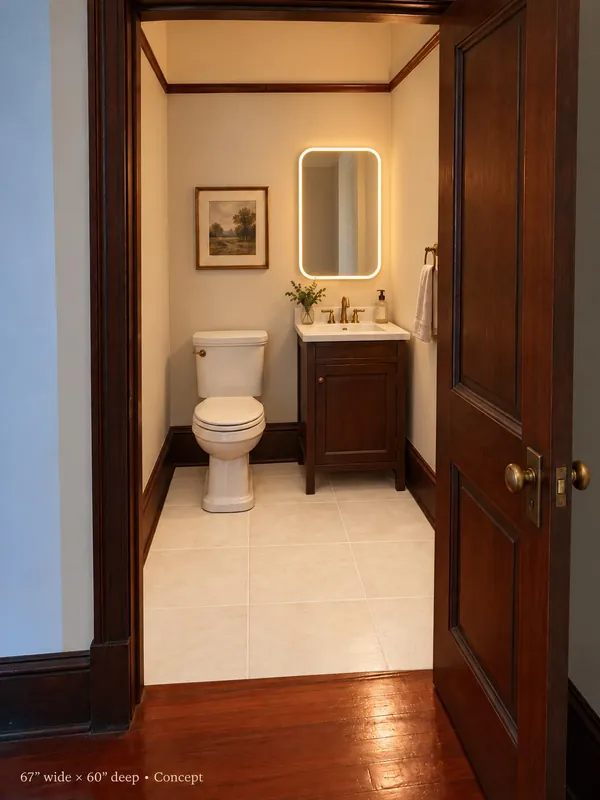
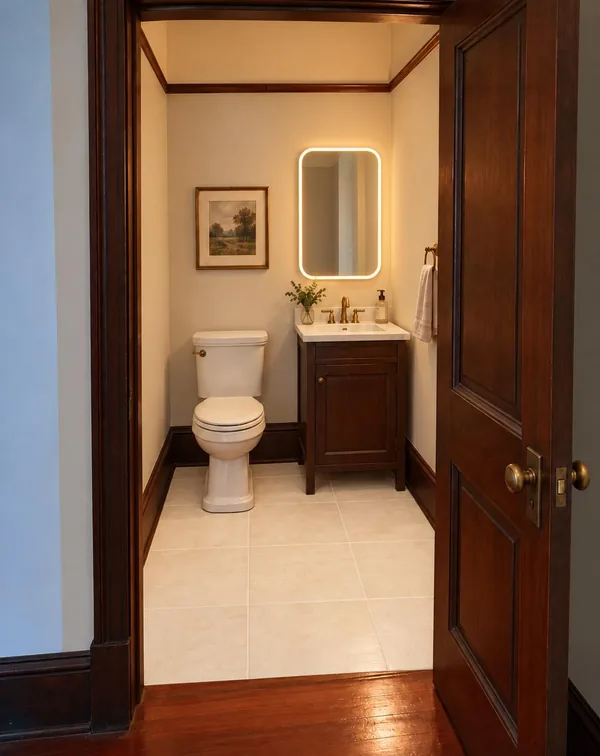
Add the first interior photos
Five rooms on a new Inside section of the Photos page (the fretwork
arch into the living room, the entry hall, an upstairs room, a
fireplace and a pierced-panel door) and the opened wall as the first
progress photo. The arch photo now leads the house section on the home
page, with the game-day concept as the small inset. Photos are lightly
color-corrected; originals are in design-source/photos-2026-10.

Trims the baked-in caption off the half-bath slider images, and adds
ChatGPT staging prompts plus 2:3 reference crops for four rooms.

Claude-Session: https://claude.ai/code/session_01HHhNeFoxKeXYtJ9rwuHu6G

diff --git a/site/photos.html b/site/photos.html
@@ -81,10 +81,11 @@
     <div class="page-title">
       <p class="script">The</p>
       <h1>Photographs</h1>
-      <p class="lede">The home as it is today, the work as it happens, and the finished rooms as we plan them. Renderings are labeled as concepts. Tap a photo to see it larger.</p>
+      <p class="lede">The house inside and out as it is today, the work as it happens, and the finished rooms as we plan them. Renderings are labeled as concepts. Tap a photo to see it larger.</p>
     </div>
     <nav class="jump" aria-label="Photo sections">
-      <a href="#today">The home today <span class="count">6</span></a>
+      <a href="#today">Outside <span class="count">4</span></a>
+      <a href="#inside">Inside <span class="count">5</span></a>
       <a href="#transformation">The transformation</a>
       <a href="#finished">When it&rsquo;s finished <span class="count">2</span></a>
     </nav>
@@ -103,7 +104,7 @@
 
   <section class="section" id="today" aria-labelledby="today-h" style="padding-top:clamp(40px,5vw,72px)">
     <div class="wrap">
-      <div class="section-head"><h2 id="today-h">The home today</h2><p class="lede">The house as it stands, before the renovation, plus one look back to around 1900.</p></div>
+      <div class="section-head"><h2 id="today-h">Outside</h2><p class="lede">The house as it stands on NE Third Street.</p></div>
       <div class="gallery">
         <figure class="photo cab w-12 tilt-s r-wide">
           <a href="images/exterior-today-1600.jpg" data-lightbox><picture><source type="image/webp" srcset="images/exterior-today-800.webp 800w, images/exterior-today-1600.webp 1551w" sizes="100vw"><img src="images/exterior-today-1600.jpg" srcset="images/exterior-today-800.jpg 800w, images/exterior-today-1600.jpg 1551w" sizes="100vw" width="1551" height="1014" alt="The Albert Blanding House today: butter-yellow clapboard, a grey fish-scale shingled gable and a wraparound porch with turned posts, behind a green lawn and front walk." loading="lazy"></picture></a>
@@ -121,13 +122,33 @@
           <div class="frame"><picture><source type="image/webp" srcset="images/detail-entry.webp"><img src="images/detail-entry.jpg" width="310" height="340" alt="The gabled porch entry and front doors." loading="lazy"></picture></div>
           <figcaption><b>The entry</b>A gabled roof over the front steps.</figcaption>
         </figure>
-        <figure class="photo cab w-5 tilt-r r-tall">
-          <a href="images/alcove-before-1086.jpg" data-lightbox><picture><source type="image/webp" srcset="images/alcove-before-600.webp 600w, images/alcove-before-1086.webp 1086w" sizes="(min-width: 760px) 50vw, 100vw"><img src="images/alcove-before-1086.jpg" srcset="images/alcove-before-600.jpg 600w, images/alcove-before-1086.jpg 1086w" sizes="(min-width: 760px) 50vw, 100vw" width="1086" height="1448" alt="Today: an empty upstairs alcove with pale blue walls, dark stained baseboards, wood floors and a wall sconce." loading="lazy"></picture></a>
-          <figcaption><b>Upstairs alcove</b>Wood floors and dark trim. This is where the new half bath goes.</figcaption>
+      </div>
+    </div>
+  </section>
+
+  <section class="section band-paper2" id="inside" aria-labelledby="inside-h">
+    <div class="wrap">
+      <div class="section-head"><h2 id="inside-h">Inside</h2><p class="lede">The wood floors, carved fretwork and mantels, photographed this fall as the work begins. Furniture comes later.</p></div>
+      <div class="gallery">
+        <figure class="photo cab w-7 r-land">
+          <a href="images/home-arch-1200.jpg" data-lightbox><picture><source type="image/webp" srcset="images/home-arch-800.webp 800w, images/home-arch-1200.webp 1200w" sizes="(min-width: 760px) 58vw, 100vw"><img src="images/home-arch-1200.jpg" srcset="images/home-arch-800.jpg 800w, images/home-arch-1200.jpg 1200w" sizes="(min-width: 760px) 58vw, 100vw" width="1200" height="900" alt="Looking through a carved fretwork archway into the living room: wide-plank wood floors, dark-stained trim, a chandelier and a wood mantel with a tiled fireplace and an oval mirror." loading="lazy"></picture></a>
+          <figcaption><b>Into the living room</b>The carved fretwork arch, with the mirrored mantel beyond.</figcaption>
         </figure>
-        <figure class="photo cab w-7 is-offset tilt-l r-land">
-          <a href="images/house-early-1900s-1200.jpg" data-lightbox><picture><source type="image/webp" srcset="images/house-early-1900s-700.webp 700w, images/house-early-1900s-1200.webp 1200w" sizes="(min-width: 760px) 50vw, 100vw"><img src="images/house-early-1900s-1200.jpg" srcset="images/house-early-1900s-700.jpg 700w, images/house-early-1900s-1200.jpg 1200w" sizes="(min-width: 760px) 50vw, 100vw" width="1200" height="1204" alt="A sepia photograph of the house in its early years, with five people in period dress on the wraparound porch behind a picket fence." loading="lazy"></picture></a>
-          <figcaption><b>The house around 1900</b>Read its story on the History page.</figcaption>
+        <figure class="photo cab w-5 is-offset r-tall">
+          <a href="images/room-entry-hall-1200.jpg" data-lightbox><picture><source type="image/webp" srcset="images/room-entry-hall-600.webp 600w, images/room-entry-hall-1200.webp 1200w" sizes="(min-width: 760px) 42vw, 100vw"><img src="images/room-entry-hall-1200.jpg" srcset="images/room-entry-hall-600.jpg 600w, images/room-entry-hall-1200.jpg 1200w" sizes="(min-width: 760px) 42vw, 100vw" width="1200" height="1600" alt="The entry hall seen through a wide doorway: a carved staircase, fretwork brackets overhead, a tall window and the front doors, with a ladder and broom from the work." loading="lazy"></picture></a>
+          <figcaption><b>The entry hall</b>The carved staircase and front doors, mid-work.</figcaption>
+        </figure>
+        <figure class="photo cab w-4 r-tall">
+          <a href="images/room-upstairs-room-1200.jpg" data-lightbox><picture><source type="image/webp" srcset="images/room-upstairs-room-600.webp 600w, images/room-upstairs-room-1200.webp 1200w" sizes="(min-width: 760px) 33vw, 100vw"><img src="images/room-upstairs-room-1200.jpg" srcset="images/room-upstairs-room-600.jpg 600w, images/room-upstairs-room-1200.jpg 1200w" sizes="(min-width: 760px) 33vw, 100vw" width="1200" height="1600" alt="An empty upstairs room with three tall windows looking into the trees, a ceiling fan, dark-stained trim and wood floors." loading="lazy"></picture></a>
+          <figcaption><b>Upstairs</b>Three tall windows into the treetops.</figcaption>
+        </figure>
+        <figure class="photo cab w-4 r-tall">
+          <a href="images/room-fireplace-room-1200.jpg" data-lightbox><picture><source type="image/webp" srcset="images/room-fireplace-room-600.webp 600w, images/room-fireplace-room-1200.webp 1200w" sizes="(min-width: 760px) 33vw, 100vw"><img src="images/room-fireplace-room-1200.jpg" srcset="images/room-fireplace-room-600.jpg 600w, images/room-fireplace-room-1200.jpg 1200w" sizes="(min-width: 760px) 33vw, 100vw" width="1200" height="1600" alt="A white painted mantel with a brick-tiled fireplace and slate hearth, beside a paneled door with a transom window." loading="lazy"></picture></a>
+          <figcaption><b>One of the fireplaces</b>A painted mantel and a transom door.</figcaption>
+        </figure>
+        <figure class="photo cab w-4 r-tall">
+          <div class="frame"><picture><source type="image/webp" srcset="images/room-closet-door-600.webp"><img src="images/room-closet-door-600.jpg" width="600" height="800" alt="A dark red four-panel closet door with pierced Eastlake panels and a white porcelain knob." loading="lazy"></picture></div>
+          <figcaption><b>The small things</b>Pierced-panel doors and porcelain knobs.</figcaption>
         </figure>
       </div>
     </div>
@@ -139,18 +160,18 @@
         
         <h2 id="progress-h">The transformation</h2>
         <p class="lede">Drag across the photo to see the upstairs alcove become the new half bath. It&rsquo;s 67 inches wide by 60 inches deep.</p>
-        <div class="coming">
-          <h3>Progress photos start here</h3>
-          <p>As the work moves along we&rsquo;ll post each room mid-renovation, from demolition to the finishing touches. Join the guest list and we&rsquo;ll email you when new ones go up.</p>
-          <a class="pill" href="./#guest-list">Join the guest list</a>
+        <div class="gallery">
+          <figure class="photo cab w-12 r-land">
+          <a href="images/room-wall-opening-1200.jpg" data-lightbox><picture><source type="image/webp" srcset="images/room-wall-opening-600.webp 600w, images/room-wall-opening-1200.webp 1200w" sizes="(min-width: 960px) 520px, 100vw"><img src="images/room-wall-opening-1200.jpg" srcset="images/room-wall-opening-600.jpg 600w, images/room-wall-opening-1200.jpg 1200w" sizes="(min-width: 960px) 520px, 100vw" width="1200" height="1600" alt="A wall opened down to the studs, looking through to the entry hall with its tall window and front doors." loading="lazy"></picture></a>
+          <figcaption><b>Fall 2026: work begins</b>A wall opened to the studs, looking through to the entry hall.</figcaption>
+        </figure>
         </div>
-        <!-- When the first progress photos are ready, replace the "coming" block above with
-             <div class="gallery"> and <figure class="photo cab"> blocks like the ones in "The home today". -->
+        <p>We&rsquo;ll post each room as the work moves along. <a href="./#guest-list">Join the guest list</a> and we&rsquo;ll email you when new photos go up.</p>
       </div>
       <figure class="cab compare-card tilt-r">
         <div class="compare" data-compare>
-          <picture><source type="image/webp" srcset="images/alcove-before-600.webp 600w, images/alcove-before-1086.webp 1086w" sizes="(min-width: 960px) 520px, 100vw"><img src="images/alcove-before-1086.jpg" srcset="images/alcove-before-600.jpg 600w, images/alcove-before-1086.jpg 1086w" sizes="(min-width: 960px) 520px, 100vw" width="1086" height="1448" alt="Today: an empty upstairs alcove with pale blue walls, dark stained baseboards, wood floors and a wall sconce." loading="lazy"></picture>
-          <div class="compare-after"><picture><source type="image/webp" srcset="images/alcove-after-concept-600.webp 600w, images/alcove-after-concept-1086.webp 1086w" sizes="(min-width: 960px) 520px, 100vw"><img src="images/alcove-after-concept-1086.jpg" srcset="images/alcove-after-concept-600.jpg 600w, images/alcove-after-concept-1086.jpg 1086w" sizes="(min-width: 960px) 520px, 100vw" width="1086" height="1448" alt="Concept: the same alcove as a half bath, with cream tile, a dark wood vanity, brass fixtures, a lit mirror and a paneled door." loading="lazy"></picture></div>
+          <picture><source type="image/webp" srcset="images/alcove-before-600.webp 600w, images/alcove-before-1086.webp 1086w" sizes="(min-width: 960px) 520px, 100vw"><img src="images/alcove-before-1086.jpg" srcset="images/alcove-before-600.jpg 600w, images/alcove-before-1086.jpg 1086w" sizes="(min-width: 960px) 520px, 100vw" width="1086" height="1368" alt="Today: an empty upstairs alcove with pale blue walls, dark stained baseboards, wood floors and a wall sconce." loading="lazy"></picture>
+          <div class="compare-after"><picture><source type="image/webp" srcset="images/alcove-after-concept-600.webp 600w, images/alcove-after-concept-1086.webp 1086w" sizes="(min-width: 960px) 520px, 100vw"><img src="images/alcove-after-concept-1086.jpg" srcset="images/alcove-after-concept-600.jpg 600w, images/alcove-after-concept-1086.jpg 1086w" sizes="(min-width: 960px) 520px, 100vw" width="1086" height="1368" alt="Concept: the same alcove as a half bath, with cream tile, a dark wood vanity, brass fixtures, a lit mirror and a paneled door." loading="lazy"></picture></div>
           <span class="compare-label is-before">Today</span>
           <span class="compare-label is-after">Concept</span>
           <div class="compare-handle" aria-hidden="true"><span class="compare-knob"><svg viewBox="0 0 24 24" fill="none" stroke="currentColor" stroke-width="2" stroke-linecap="round" stroke-linejoin="round"><path d="m9 6-6 6 6 6M15 6l6 6-6 6"/></svg></span></div>
@@ -166,7 +187,7 @@
       <div class="section-head"><h2 id="finished-h">When it&rsquo;s finished</h2><p class="lede">Renderings of the rooms as we plan them. Final finishes may change, and we&rsquo;ll add more as each room is designed.</p></div>
       <div class="gallery">
         <figure class="photo cab w-5 tilt-l r-tall">
-          <a href="images/alcove-after-concept-1086.jpg" data-lightbox><span class="tag">Concept</span><picture><source type="image/webp" srcset="images/alcove-after-concept-600.webp 600w, images/alcove-after-concept-1086.webp 1086w" sizes="(min-width: 760px) 50vw, 100vw"><img src="images/alcove-after-concept-1086.jpg" srcset="images/alcove-after-concept-600.jpg 600w, images/alcove-after-concept-1086.jpg 1086w" sizes="(min-width: 760px) 50vw, 100vw" width="1086" height="1448" alt="Concept rendering of the upstairs half bath: cream tile floor, dark wood vanity, brass faucet, a lit rounded mirror and a framed landscape print." loading="lazy"></picture></a>
+          <a href="images/alcove-after-concept-1086.jpg" data-lightbox><span class="tag">Concept</span><picture><source type="image/webp" srcset="images/alcove-after-concept-600.webp 600w, images/alcove-after-concept-1086.webp 1086w" sizes="(min-width: 760px) 50vw, 100vw"><img src="images/alcove-after-concept-1086.jpg" srcset="images/alcove-after-concept-600.jpg 600w, images/alcove-after-concept-1086.jpg 1086w" sizes="(min-width: 760px) 50vw, 100vw" width="1086" height="1368" alt="Concept rendering of the upstairs half bath: cream tile floor, dark wood vanity, brass faucet, a lit rounded mirror and a framed landscape print." loading="lazy"></picture></a>
           <figcaption><b>The upstairs half bath</b>Concept rendering. Dark wood and brass to match the house&rsquo;s trim.</figcaption>
         </figure>
         <figure class="photo cab w-7 is-offset tilt-r r-land">

diff --git a/site/index.html b/site/index.html
@@ -140,9 +140,9 @@
   <section class="section" id="the-house" aria-labelledby="house-h">
     <div class="wrap house-grid">
       <div class="house-photos">
-        <figure class="cab hp-1"><span class="tag">Concept</span><picture><source type="image/webp" srcset="images/render-living-room-800.webp 800w, images/render-living-room-1536.webp 1536w" sizes="(min-width: 1000px) 40vw, 80vw"><img src="images/render-living-room-1536.jpg" srcset="images/render-living-room-800.jpg 800w, images/render-living-room-1536.jpg 1536w" sizes="(min-width: 1000px) 40vw, 80vw" width="1536" height="1024" alt="Concept rendering of the living room set up for game day: a 98-inch TV showing a football game above a carved wood fireplace, a deep cream sectional with orange and blue pillows, a leather ottoman with snacks, dark-stained trim and tall shuttered windows." loading="lazy"></picture></figure>
+        <figure class="cab hp-1"><picture><source type="image/webp" srcset="images/home-arch-800.webp 800w, images/home-arch-1200.webp 1200w" sizes="(min-width: 1000px) 40vw, 80vw"><img src="images/home-arch-1200.jpg" srcset="images/home-arch-800.jpg 800w, images/home-arch-1200.jpg 1200w" sizes="(min-width: 1000px) 40vw, 80vw" width="1200" height="900" alt="Looking through a carved fretwork archway into the living room: wide-plank wood floors, dark-stained trim, a chandelier and a wood mantel with a tiled fireplace and an oval mirror." loading="lazy"></picture></figure>
         <figure class="cab hp-2"><picture><source type="image/webp" srcset="images/exterior-today-800.webp 800w, images/exterior-today-1600.webp 1551w" sizes="(min-width: 1000px) 24vw, 46vw"><img src="images/exterior-today-1600.jpg" srcset="images/exterior-today-800.jpg 800w, images/exterior-today-1600.jpg 1551w" sizes="(min-width: 1000px) 24vw, 46vw" width="1551" height="1014" alt="The wraparound porch and gabled entry of the house." loading="lazy"></picture></figure>
-        <figure class="cab hp-3"><picture><source type="image/webp" srcset="images/detail-entry.webp"><img src="images/detail-entry.jpg" width="310" height="340" alt="The gabled porch entry and front doors." loading="lazy"></picture></figure>
+        <figure class="cab hp-3"><span class="tag">Concept</span><picture><source type="image/webp" srcset="images/render-living-room-800.webp 800w, images/render-living-room-1536.webp 1536w" sizes="(min-width: 1000px) 20vw, 40vw"><img src="images/render-living-room-1536.jpg" srcset="images/render-living-room-800.jpg 800w, images/render-living-room-1536.jpg 1536w" sizes="(min-width: 1000px) 20vw, 40vw" width="1536" height="1024" alt="Concept rendering of the living room set up for game day: a 98-inch TV showing a football game above a carved wood fireplace, a deep cream sectional with orange and blue pillows, a leather ottoman with snacks, dark-stained trim and tall shuttered windows." loading="lazy"></picture></figure>
       </div>
       <div class="bill">
         <div class="bill-head"><p class="script">A bill of particulars</p><h2 id="house-h">The house at 306 NE Third</h2></div>
@@ -159,7 +159,7 @@
           <div><dt>Stadium</dt><dd>7-minute drive</dd></div>
         </dl>
         <div class="bill-foot">
-          <p class="fine">We&rsquo;re keeping the porch, the wood floors and the dark-stained trim, and adding what a modern stay needs. The living room above is a concept rendering.</p>
+          <p class="fine">We&rsquo;re keeping the porch, the wood floors and the dark-stained trim, and adding what a modern stay needs. The game-day living room is a concept rendering; the rest are photos of the house today.</p>
           <a class="link" href="photos.html#transformation">See the transformation</a>
         </div>
       </div>

diff --git a/CHATGPT_PROMPTS.md b/CHATGPT_PROMPTS.md
@@ -87,6 +87,30 @@ Two rules for everything:
 - **Label renderings as concepts** on the site. The Photos page already has a "Concept" tag for this.
 
 ---
+### 10. Staging the real interior photos (before/after sliders)
+
+These turn the October 2026 interior photos into furnished concepts. On the Photos page each one becomes a slider: drag from the room today to the room finished. A slider only works if the two images line up, so the walls, doors and trim must not move.
+
+Use the four pre-cropped photos in `design-source/staging-refs/` (already lightly color-corrected and cropped to 2:3, the shape ChatGPT returns). Open one new chat for all four, and paste this first, with no image:
+
+> In this chat I'll attach real photos of rooms in our 1899 Victorian house and ask you to furnish them. Every image you make is an edit of the attached photo, not a new picture. Keep the exact camera position, lens and framing, and keep every wall, window, door, trim board, baseboard, fretwork piece, mantel, floor board and light fixture in the same place and the same size, so the two images line up when one is laid over the other. Only add furniture and decor, and fix the specific things I name. Portrait, 1024 by 1536. Photorealistic, like high-end vacation rental listing photography, soft natural daylight. No people, no text, no logos, no University of Florida branding. Reply only with the image.
+
+Then one message each, with the photo attached.
+
+**`stage-living-room.png`** (attach `stage-ref-arch-living-room.jpg`)
+> Furnish the living room seen through the carved fretwork arch. A deep sofa in oatmeal linen facing the fireplace, two cognac leather armchairs, a round wood coffee table, a large vintage-style rug in muted navy and rust, a brass floor lamp, a tall potted fiddle-leaf fig in the corner. Keep the mantel, its oval mirror and the chandelier. Remove the extension cord on the floor and make the worn threshold in the doorway look refinished.
+
+**`stage-bedroom.png`** (attach `stage-ref-upstairs-room.jpg`)
+> Furnish this upstairs room as the primary bedroom. A king bed with a low upholstered headboard in soft cream, white bedding with a burnt-orange and navy quilt folded across the foot, two nightstands with brass lamps, a woven rug under the bed, an upholstered bench at the foot, light linen curtains on the three windows. Keep the ceiling fan.
+
+**`stage-fireplace-room.png`** (attach `stage-ref-fireplace-room.jpg`)
+> Furnish the corner around this fireplace as a quiet sitting spot in a guest bedroom. Two upholstered armchairs angled toward the fireplace, a small round side table with a stack of books, a framed botanical print and two candlesticks on the mantel, a dried magnolia arrangement in the firebox, a small rug. Keep the white mantel, the tile and the paneled door with its transom.
+
+**`stage-entry-hall.png`** (attach `stage-ref-entry-hall.jpg`)
+> Show this entry hall finished. Repair the torn drywall above the doorway so it is smooth and painted to match the wall, keeping all of the carved fretwork. Remove the broom, dustpan, step ladder, water bottles, cord and the loose screen door. Add a long runner rug, a narrow wood console under the window with a lamp and a bowl for keys, a bench with brass coat hooks, and a potted palm. Keep the staircase, the window, the light fixture and the front doors.
+
+**Check each one** before you save it: open the original and the new image in two tabs and flick between them. If a door, window or the arch has shifted, reply "Keep everything except the furniture exactly where it is in the original photo" and try again (up to 3 times). Drop the keepers in the Google Drive folder with the file names above, and I'll build the sliders.
+
 
 ## 1. Logo
 
